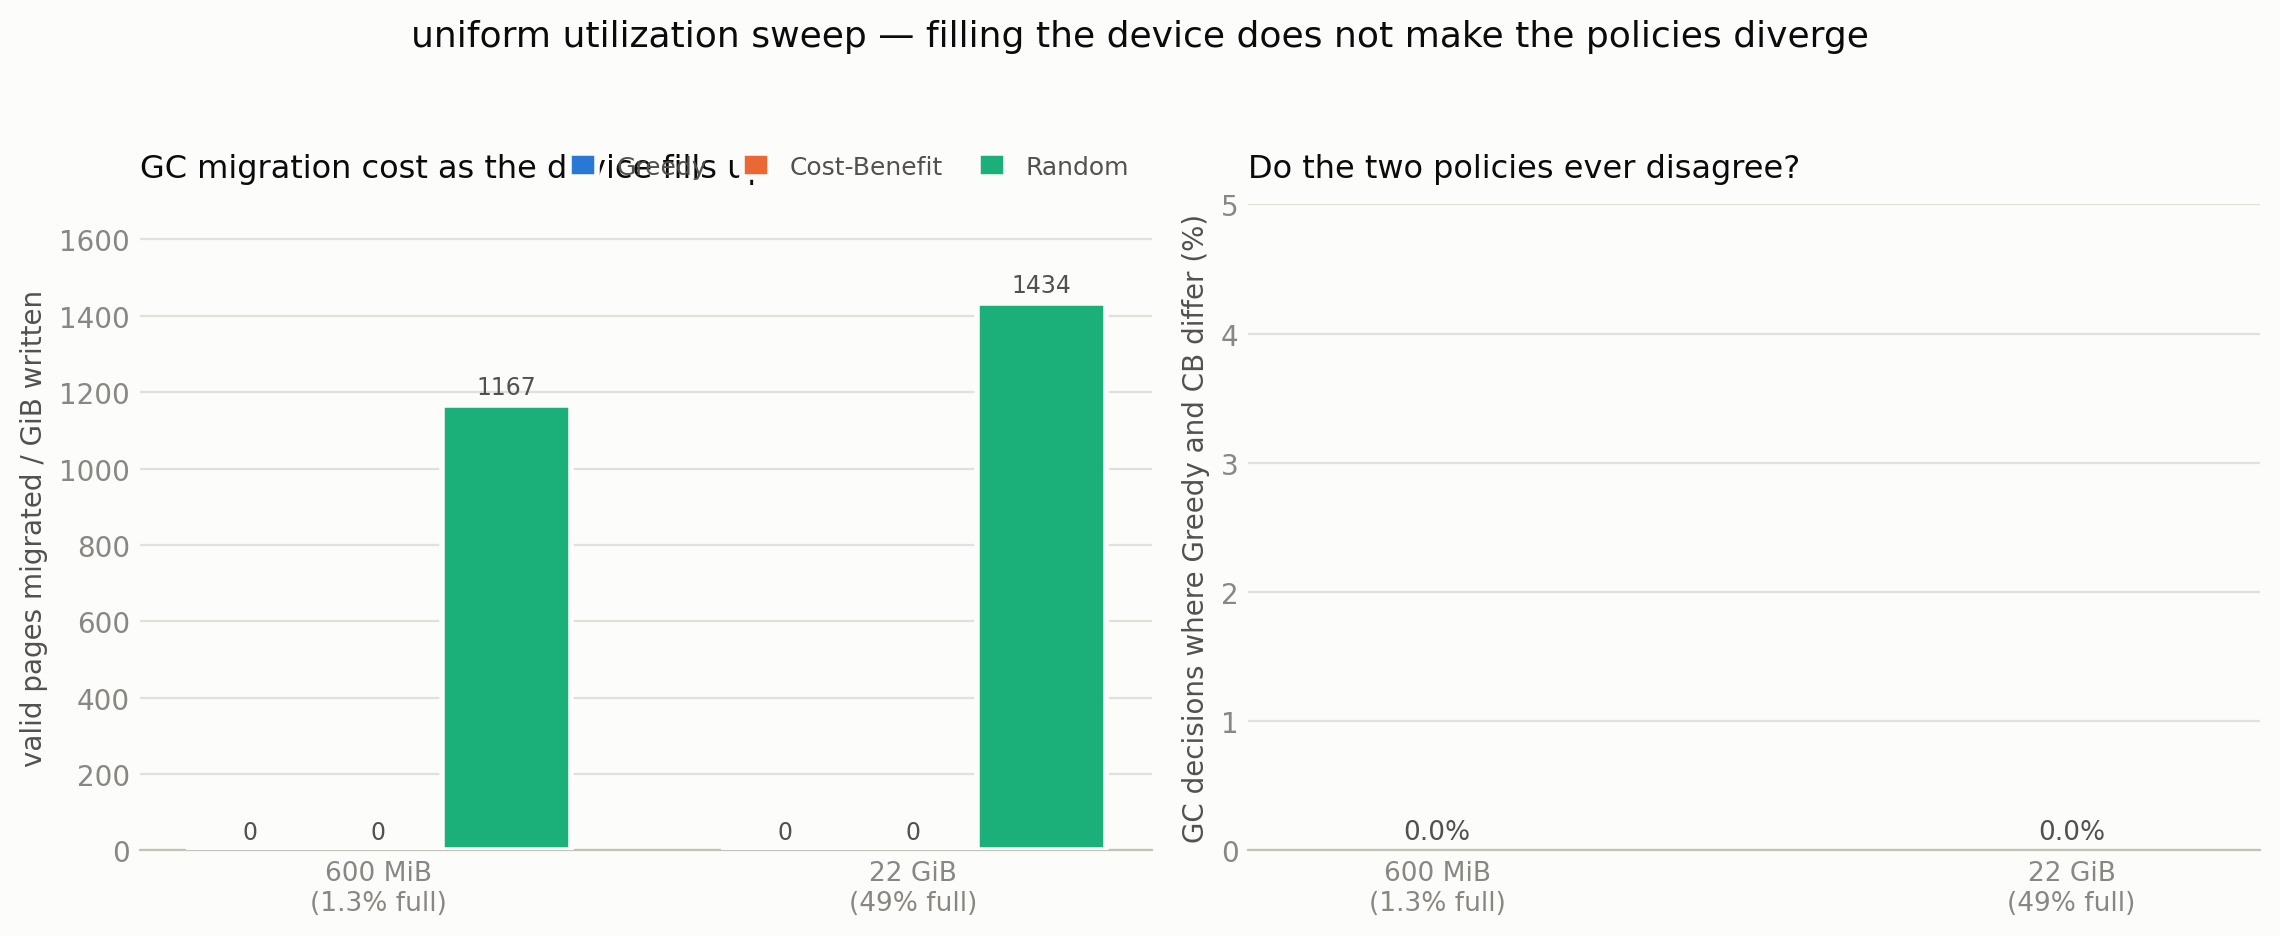
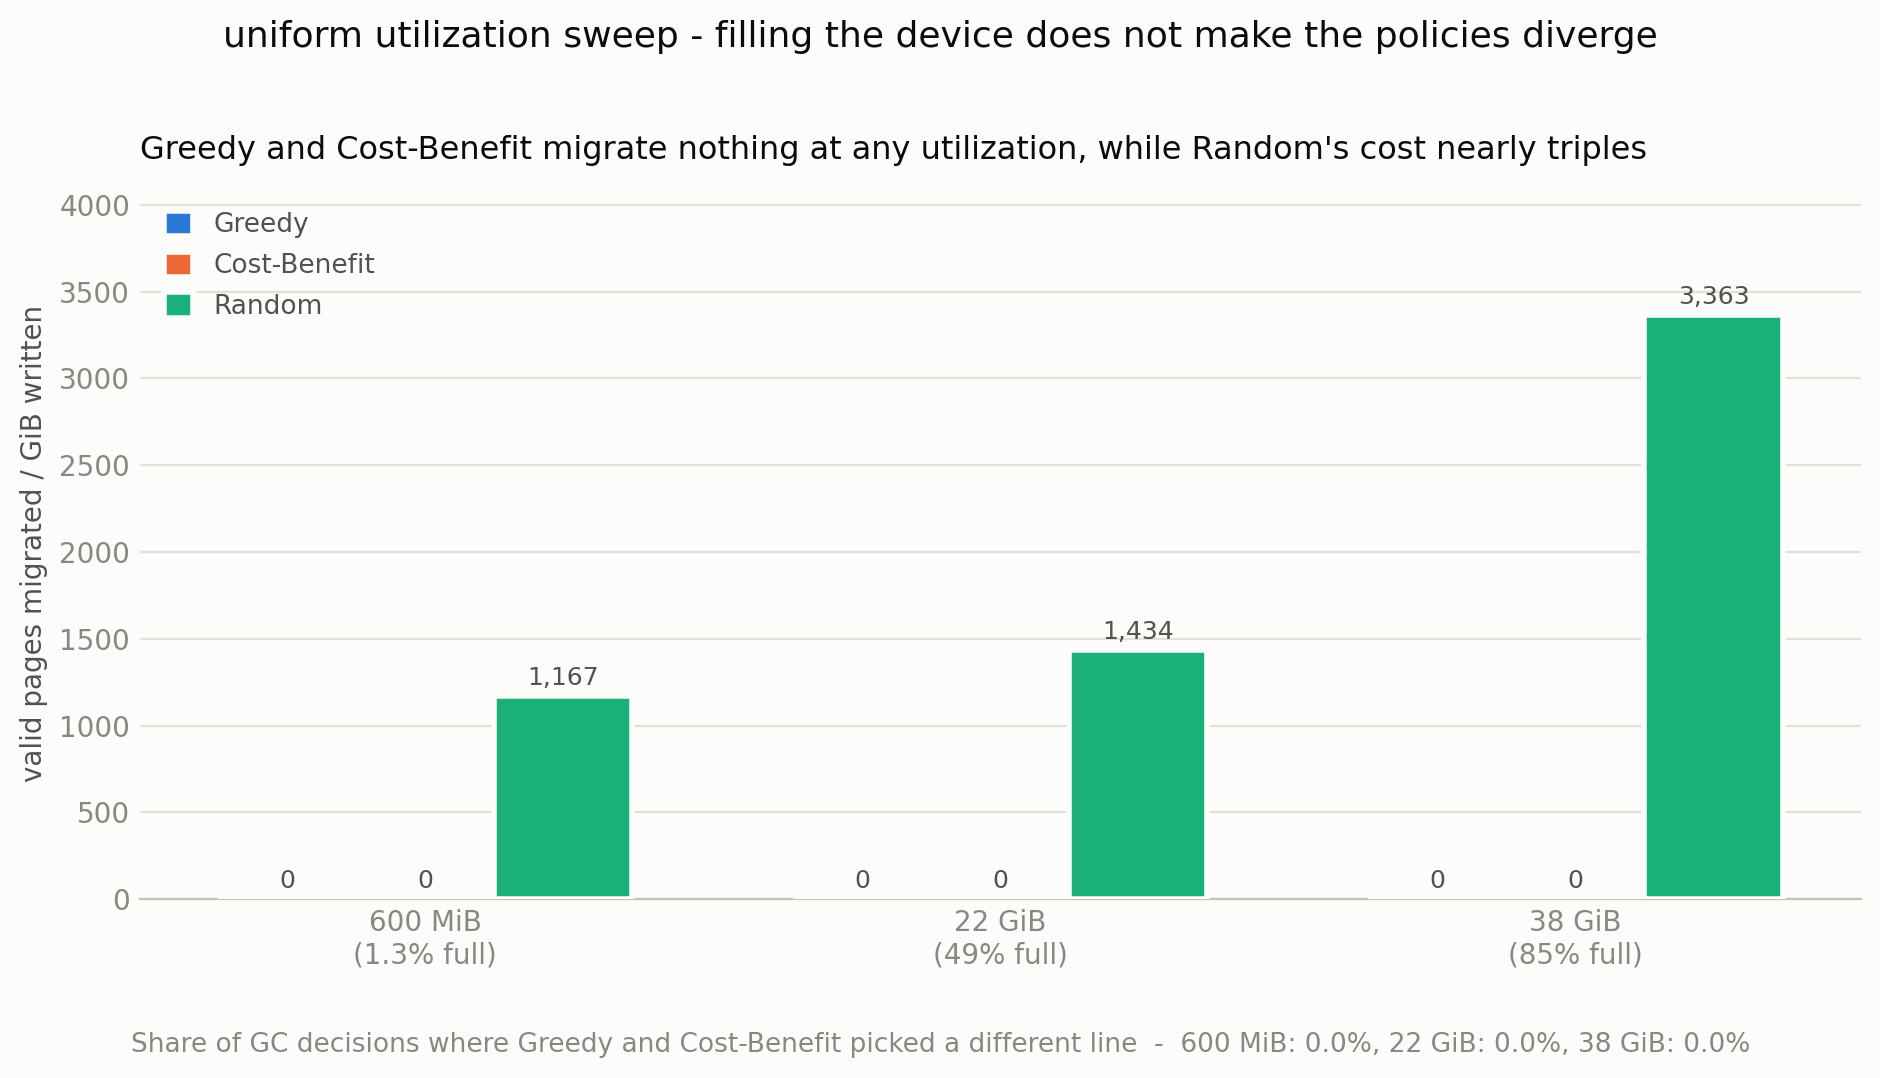
Test the uniform convergence hypothesis with a utilization sweep
The report explained uniform's Greedy/Cost-Benefit convergence by working-set
size: only 600 MiB live on a 44.86 GiB device, so every GC victim was already
fully invalid and there was nothing to choose between. That was an inference,
and it predicted the convergence should break once the device is full.

It does not. Holding the workload and total bytes written fixed and growing
only the file (600 MiB -> 22 GiB -> 38 GiB, i.e. 1.3% -> 49% -> 85% full),
both policies still migrated exactly zero pages and never once picked a
different line. Random makes that meaningful rather than vacuous: on the same
candidate pool its migration cost climbed 1,167 -> 1,434 -> 3,363 pages per
GiB, so GC really was getting harder and partially-valid lines really were
accumulating -- a min-vpc pick simply always found a fully dead line anyway.

So the cause is the uniformity of the access pattern, not device fullness:
what Cost-Benefit needs in order to differ from Greedy is skew.

Changed region(s): [[0.0, 0.1239, 0.9872, 0.9915], [0.1234, 0.0, 0.8947, 0.062], [0.7404, 0.8056, 0.7713, 0.8365]]

diff --git a/report/make_figures.py b/report/make_figures.py
@@ -365,40 +365,40 @@ xlabels = [f"{live * 1024:.0f} MiB\n({live / DEVICE_GIB * 100:.1f}% full)" if li
            else f"{live:.0f} GiB\n({live / DEVICE_GIB * 100:.0f}% full)"
            for live, _ in sweep]
 
-fig, axes = plt.subplots(1, 2, figsize=(11.5, 4.5))
+# 단일 패널로 그린다. "Greedy와 CB가 갈린 비율"은 세 지점 모두 정확히 0%라
+# 막대로 그리면 빈 축만 남으므로, 축 대신 캡션 한 줄로 적는다.
+fig, ax = plt.subplots(figsize=(9.5, 4.8))
 w = 0.24
 for pi, pol in enumerate(ORDER):
     vals = [d.get(pol, (0.0, 0.0))[0] for _, d in sweep]
-    axes[0].bar(xs + (pi - 1) * w, vals, width=w, color=COLOR[pol], label=LABEL[pol],
-                zorder=3, edgecolor=SURFACE, linewidth=2.0)
+    ax.bar(xs + (pi - 1) * w, vals, width=w, color=COLOR[pol], label=LABEL[pol],
+           zorder=3, edgecolor=SURFACE, linewidth=2.0)
     for xi, v in zip(xs + (pi - 1) * w, vals):
-        axes[0].annotate(f"{v:.0f}", xy=(xi, v), xytext=(0, 4), textcoords="offset points",
-                         ha="center", fontsize=8.5, color=INK_SECONDARY)
-axes[0].set_ylabel("valid pages migrated / GiB written")
-axes[0].set_title("GC migration cost as the device fills up", loc="left", fontsize=11.5, pad=10)
-axes[0].legend(loc="lower right", bbox_to_anchor=(1.0, 1.005), frameon=False, ncol=3,
-               fontsize=9, labelcolor=INK_SECONDARY, handlelength=1.1, handleheight=1.1,
-               columnspacing=1.4)
+        ax.annotate(f"{v:,.0f}", xy=(xi, v), xytext=(0, 4), textcoords="offset points",
+                    ha="center", fontsize=9, color=INK_SECONDARY)
 
-div = [d.get("greedy", (0.0, 0.0))[1] for _, d in sweep]
-bars = axes[1].bar(xs, div, width=0.45, color=COLOR["costbenefit"], zorder=3)
-for r, v in zip(bars, div):
-    axes[1].annotate(f"{v:.1f}%", xy=(r.get_x() + r.get_width() / 2, v), xytext=(0, 4),
-                     textcoords="offset points", ha="center", fontsize=9.5, color=INK_SECONDARY)
-axes[1].set_ylabel("GC decisions where Greedy and CB differ (%)")
-axes[1].set_title("Do the two policies ever disagree?", loc="left", fontsize=11.5, pad=10)
-axes[1].set_ylim(0, max(max(div) * 1.35, 5))
+ax.set_ylabel("valid pages migrated / GiB written")
+ax.set_xticks(xs)
+ax.set_xticklabels(xlabels, fontsize=10)
+ax.tick_params(axis="both", length=0)
+ax.spines[["top", "right", "left"]].set_visible(False)
+ax.grid(axis="x", visible=False)
+ax.margins(y=0.22)
+ax.legend(loc="upper left", frameon=False, fontsize=9.5, labelcolor=INK_SECONDARY,
+          handlelength=1.1, handleheight=1.1)
+ax.set_title("Greedy and Cost-Benefit migrate nothing at any utilization, "
+             "while Random's cost nearly triples",
+             loc="left", fontsize=11.5, pad=10, color=INK_PRIMARY)
 
-for ax in axes:
-    ax.set_xticks(xs)
-    ax.set_xticklabels(xlabels, fontsize=9.5)
-    ax.tick_params(axis="both", length=0)
-    ax.spines[["top", "right", "left"]].set_visible(False)
-    ax.grid(axis="x", visible=False)
-    ax.margins(y=0.18)
+div_note = ", ".join(f"{lbl.splitlines()[0]}: {d.get('greedy', (0.0, 0.0))[1]:.1f}%"
+                     for lbl, (_, d) in zip(xlabels, sweep))
+fig.text(0.5, -0.055,
+         "Share of GC decisions where Greedy and Cost-Benefit picked a different line  -  "
+         + div_note,
+         ha="center", fontsize=9.5, color=INK_MUTED)
 
-fig.suptitle("uniform utilization sweep — filling the device does not make the policies diverge",
-             fontsize=13, color=INK_PRIMARY, y=1.03)
+fig.suptitle("uniform utilization sweep - filling the device does not make the policies diverge",
+             fontsize=13, color=INK_PRIMARY, y=1.02)
 save(fig, "fig6_utilization_sweep")
 
 # =====================================================================
